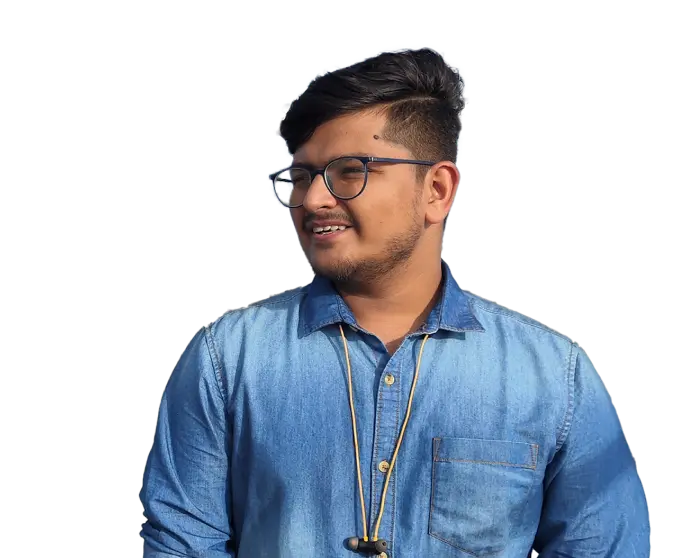
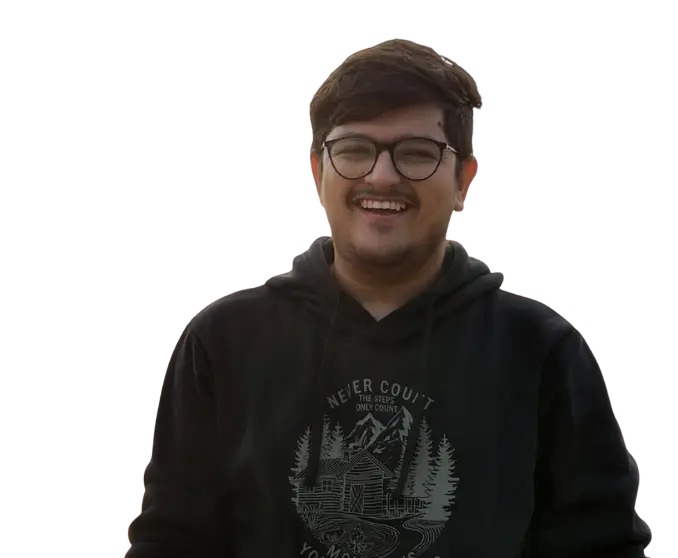
hero image change

diff --git a/app/components/Hero.jsx b/app/components/Hero.jsx
@@ -90,13 +90,14 @@ const Hero = () => {
 
           <Image
             className="z-40 relative max-sm:scale-110 animate__animated animate__fadeIn "
-            src="/images/heroImg.webp"
+            src="/images/heroImg.png"
             alt="hero_Main_img"
             width={678}
             height={558}
+            unoptimized={true}
           />
           <Image
-            className="absolute top-20 max-sm:hidden  right-0 opacity-70 animate__animated animate__fadeIn"
+            className="absolute top-20 max-sm:hidden right-0 opacity-70 animate__animated animate__fadeIn"
             src="/images/heroBgStyle.webp"
             width={909}
             height={1018}
